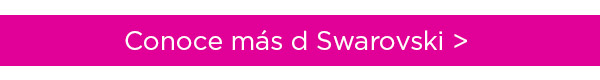
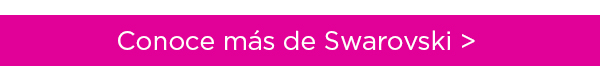
CINTILLOSWA

Changed region(s): [[0.18, 0.375, 0.81, 0.625]]

diff --git a/assetsA/assets/digital/mailings/html/2019/09_septiembre/SWAROVSKI/index.html b/assetsA/assets/digital/mailings/html/2019/09_septiembre/SWAROVSKI/index.html
@@ -419,10 +419,10 @@ td { font-size:1px; line-height:1px;}
 								<strong>Restricciones</strong> <br>
 								V&aacute;lido: En almacenes Liverpool, en internet y ventas por tel&eacute;fono	<br><br>
 									
-						*No aplica en productos SCS. 
-**13 meses sin intereses tarjetas bancarias o 15 meses sin intereses tarjetas Liverpool. 
-Consulta tarjetas bancarias participantes. No acumulable con otras promociones o descuentos. 
-Las im&aacute;genes de las piezas mostradas y su tamaño podr&iacute;an no corresponder con la realidad. Algunos de los productos mostrados s&oacute;lo están disponibles en tiendas seleccionadas. Precios sujetos a cambios sin previo aviso.
+*Consulta t&eacute;rminos y condiciones. Precios sujetos a cambio sin previo aviso. Precios y descuentos sujetos a cambio sin previo aviso. 				
+				
+				
+				
 
 		
 

diff --git a/assetsB/assets/digital/mailings/html/2019/09_septiembre/SWAROVSKI/index.html b/assetsB/assets/digital/mailings/html/2019/09_septiembre/SWAROVSKI/index.html
@@ -419,10 +419,10 @@ td { font-size:1px; line-height:1px;}
 								<strong>Restricciones</strong> <br>
 								V&aacute;lido: En almacenes Liverpool, en internet y ventas por tel&eacute;fono	<br><br>
 									
-						*No aplica en productos SCS. 
-**13 meses sin intereses tarjetas bancarias o 15 meses sin intereses tarjetas Liverpool. 
-Consulta tarjetas bancarias participantes. No acumulable con otras promociones o descuentos. 
-Las im&aacute;genes de las piezas mostradas y su tamaño podr&iacute;an no corresponder con la realidad. Algunos de los productos mostrados s&oacute;lo están disponibles en tiendas seleccionadas. Precios sujetos a cambios sin previo aviso.
+*Consulta t&eacute;rminos y condiciones. Precios sujetos a cambio sin previo aviso. Precios y descuentos sujetos a cambio sin previo aviso. 				
+				
+				
+				
 
 		
 
